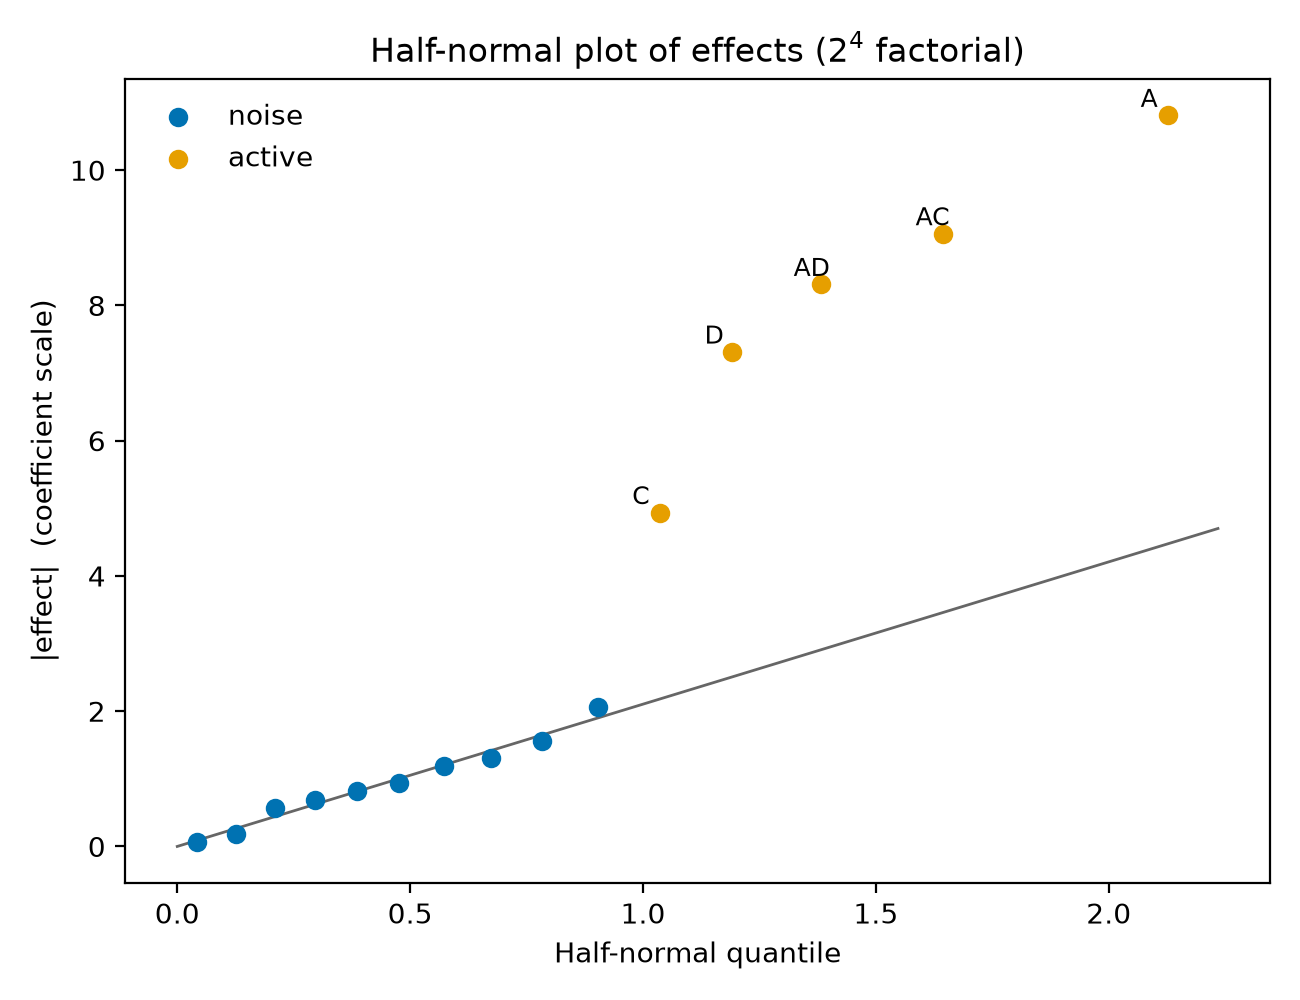
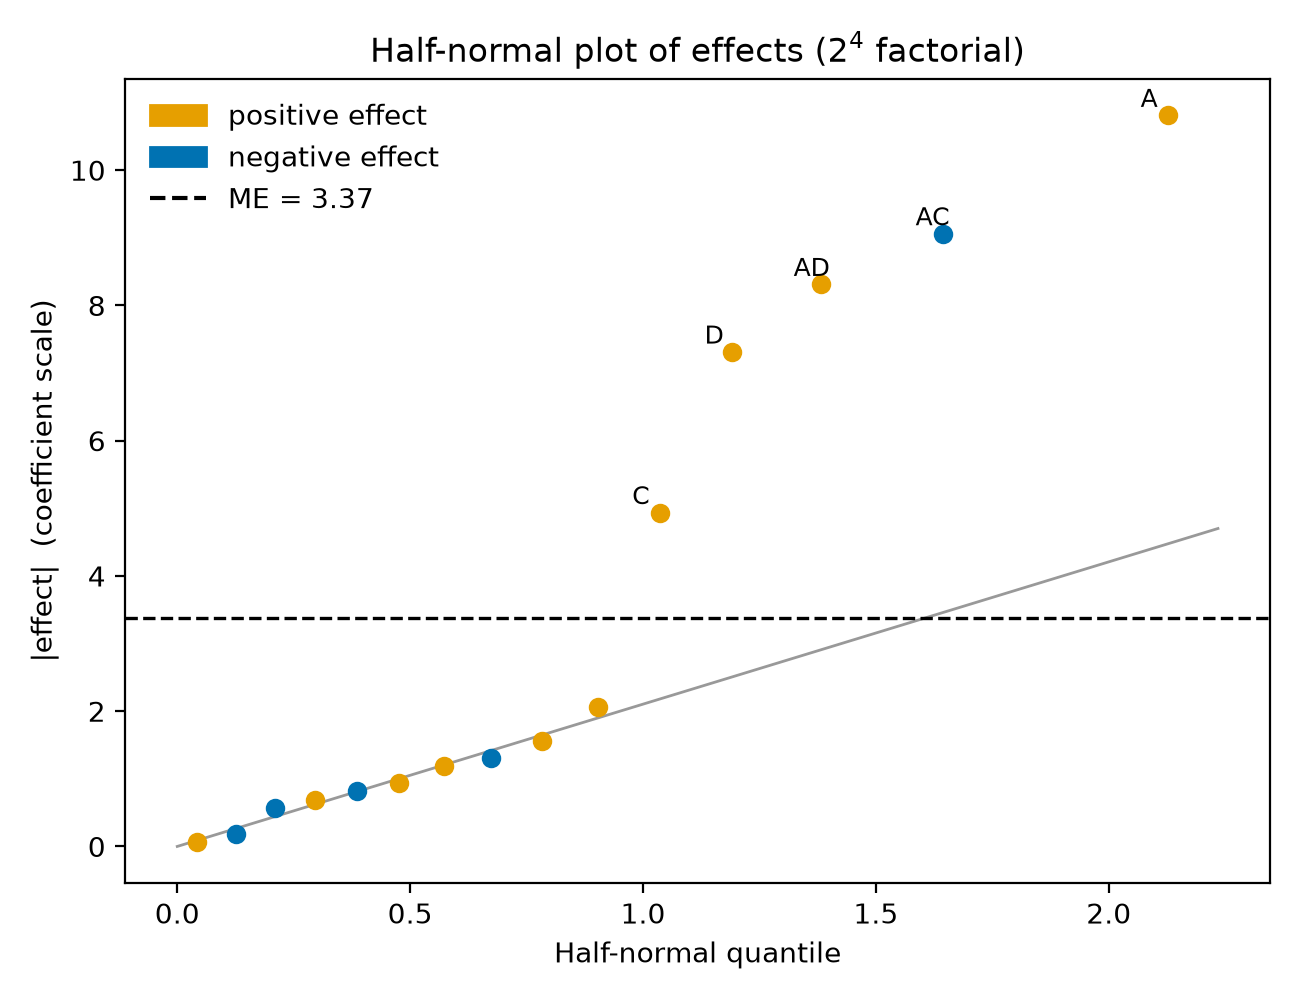
DoE significance figures: colour by sign, not significance
Restore the original convention where bar/point colour encodes the sign of
the effect (positive = orange, negative = blue), keeping the new
colourblind-safe Okabe-Ito palette. Significance is now carried entirely by
the Lenth margin-of-error (ME, black dashed) and simultaneous-margin-of-error
(SME, grey dotted) lines, so colour is free to show sign again, matching the
intent of the original R generator (col=c("lightblue","orange") on the sign
of the coefficient). Regenerating from the correct least-squares effects also
fixes several bars the old R figure mis-signed because of a stale design
object. Each figure's legend now shows the sign colours and the cutoff lines.

diff --git a/doe/lenth-significance-plots.py b/doe/lenth-significance-plots.py
@@ -18,10 +18,15 @@ import itertools
 
 import matplotlib.pyplot as plt
 import numpy as np
+from matplotlib.lines import Line2D
+from matplotlib.patches import Patch
 from scipy import stats
 
-# Okabe-Ito colourblind-safe palette
-BLUE, ORANGE, VERMILLION = "#0072B2", "#E69F00", "#D55E00"
+# Okabe-Ito colourblind-safe palette. Bars/points are coloured by the SIGN of
+# the effect (positive = orange, negative = blue); the Lenth margin-of-error
+# and simultaneous-margin-of-error lines, not the colour, mark significance.
+BLUE, ORANGE = "#0072B2", "#E69F00"
+ME_COLOUR, SME_COLOUR = "#000000", "#666666"
 
 
 def lenth(coeffs, alpha=0.05):
@@ -53,19 +58,30 @@ def effects_from(y, k):
     return dict(zip(terms.keys(), b[1:]))
 
 
+def _sign_legend(me, sme=None):
+    """Legend handles: sign colours plus the ME/SME cutoff lines."""
+    handles = [Patch(color=ORANGE, label="positive effect"),
+               Patch(color=BLUE, label="negative effect"),
+               Line2D([0], [0], color=ME_COLOUR, linestyle="--", label=f"ME = {me:.2f}")]
+    if sme is not None:
+        handles.append(Line2D([0], [0], color=SME_COLOUR, linestyle=":", label=f"SME = {sme:.2f}"))
+    return handles
+
+
 def pareto(effects, me, sme, filename, title):
     ordered = sorted(effects, key=lambda k: abs(effects[k]))
     vals = [abs(effects[k]) for k in ordered]
+    # Colour each bar by the SIGN of its effect, not by significance.
+    colours = [ORANGE if effects[k] > 0 else BLUE for k in ordered]
     fig, ax = plt.subplots(figsize=(6.5, max(3.5, 0.32 * len(ordered) + 1)))
-    colours = [ORANGE if v > me else BLUE for v in vals]
     ax.barh(ordered, vals, color=colours)
-    ax.axvline(me, color=VERMILLION, linestyle="--", linewidth=1.6, label=f"ME = {me:.2f}")
+    ax.axvline(me, color=ME_COLOUR, linestyle="--", linewidth=1.6)
     if sme is not None:
-        ax.axvline(sme, color="#000000", linestyle=":", linewidth=1.6, label=f"SME = {sme:.2f}")
+        ax.axvline(sme, color=SME_COLOUR, linestyle=":", linewidth=1.6)
     ax.set_xlabel("|effect|  (coefficient scale)")
     ax.set_ylabel("Term")
     ax.set_title(title)
-    ax.legend(loc="lower right", frameon=False)
+    ax.legend(handles=_sign_legend(me, sme), loc="lower right", frameon=False)
     fig.tight_layout()
     fig.savefig(filename, dpi=200)
     plt.close(fig)
@@ -74,24 +90,27 @@ def pareto(effects, me, sme, filename, title):
 def half_normal(effects, me, filename, title):
     ordered = sorted(effects, key=lambda k: abs(effects[k]))
     vals = np.array([abs(effects[k]) for k in ordered])
+    positive = np.array([effects[k] > 0 for k in ordered])
     m = len(vals)
     q = stats.halfnorm.ppf((np.arange(1, m + 1) - 0.5) / m)
     active = vals > me
     fig, ax = plt.subplots(figsize=(6.5, 5.0))
-    ax.scatter(q[~active], vals[~active], color=BLUE, zorder=3, label="noise")
-    ax.scatter(q[active], vals[active], color=ORANGE, zorder=3, label="active")
+    # Colour points by sign; significance is read from the ME line and the labels.
+    ax.scatter(q[positive], vals[positive], color=ORANGE, zorder=3)
+    ax.scatter(q[~positive], vals[~positive], color=BLUE, zorder=3)
     # reference line through the origin fitted to the inactive (noise) effects
     if active.sum() < m:
         slope = np.sum(q[~active] * vals[~active]) / np.sum(q[~active] ** 2)
         xs = np.linspace(0, q.max() * 1.05, 50)
-        ax.plot(xs, slope * xs, color="#666666", linewidth=1.0, zorder=1)
+        ax.plot(xs, slope * xs, color="#999999", linewidth=1.0, zorder=1)
+    ax.axhline(me, color=ME_COLOUR, linestyle="--", linewidth=1.2, zorder=2)
     for xi, yi, name in zip(q, vals, ordered):
         if yi > me:
             ax.annotate(name, (xi, yi), textcoords="offset points", xytext=(-10, 3), fontsize=9)
     ax.set_xlabel("Half-normal quantile")
     ax.set_ylabel("|effect|  (coefficient scale)")
     ax.set_title(title)
-    ax.legend(loc="upper left", frameon=False)
+    ax.legend(handles=_sign_legend(me), loc="upper left", frameon=False)
     fig.tight_layout()
     fig.savefig(filename, dpi=200)
     plt.close(fig)
